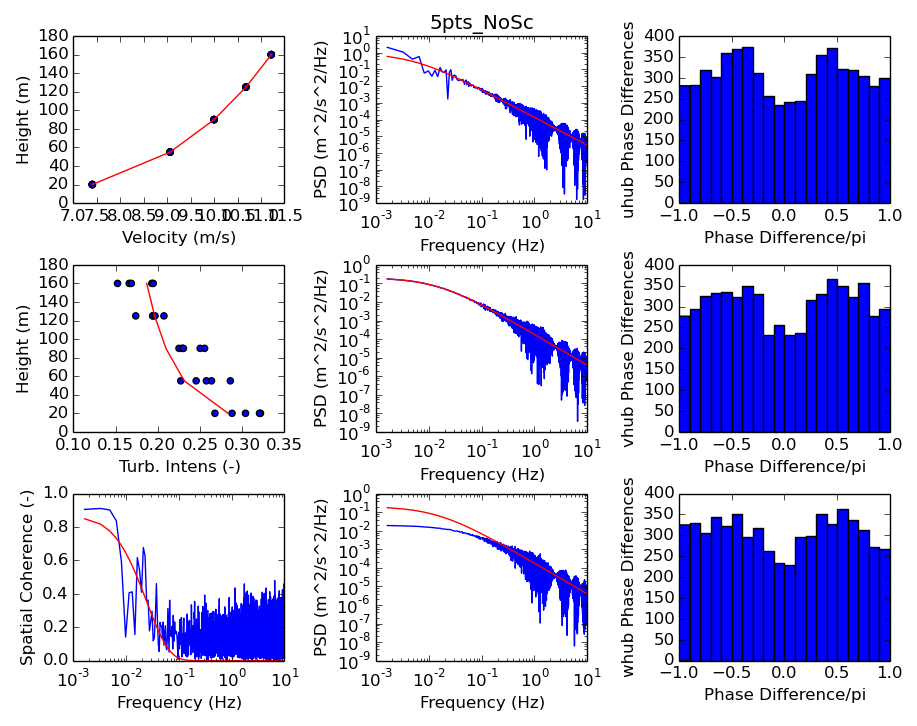
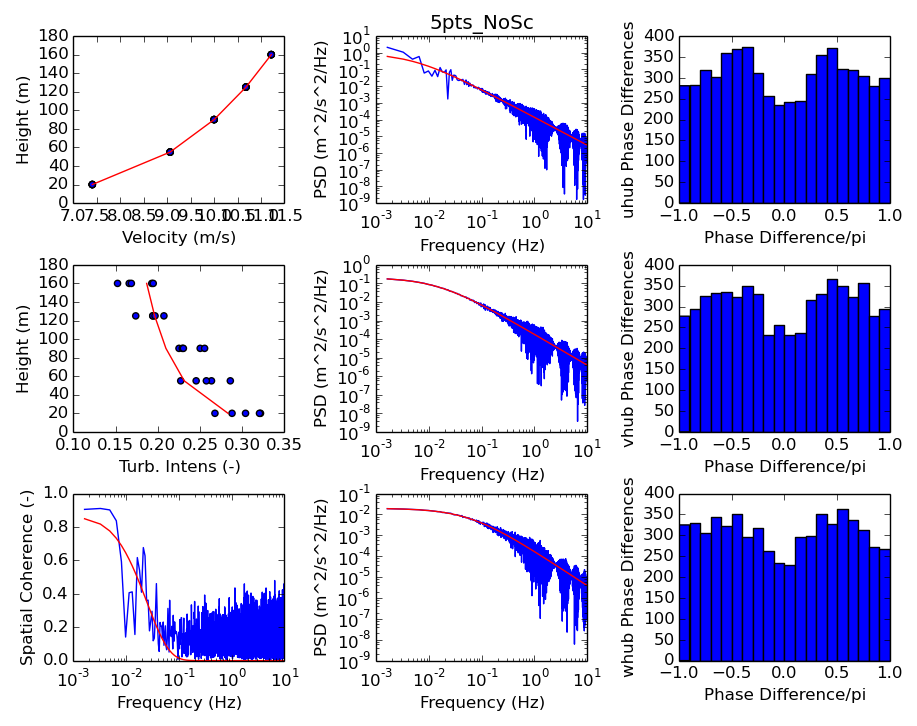
Removed debugging lines from JR_Library.misc

Changed region(s): [[0.3664, 0.6667, 0.6412, 0.9091]]

diff --git a/JR_Library/IEC.py b/JR_Library/IEC.py
@@ -163,10 +163,6 @@ def PSDs(zhub,Vhub,turbc,f):
     L2 = 2.7*Lambda1;                   # lateral integral scale  
     L3 = 0.66*Lambda1;                  # vertical integral scale
 
-    print 'Lambda1 = {}'.format(Lambda1)
-    print 'sigma1 = {}'.format(sigma1)
-    print 'L1 = {}'.format(L1)
-
     Su = KaimalSpectrum(f,L1/Vhub,sigma1);  # longitudinal spectrum
     Sv = KaimalSpectrum(f,L2/Vhub,sigma2);  # lateral spectrum
     Sw = KaimalSpectrum(f,L3/Vhub,sigma3);  # vertical spectrum

diff --git a/turbsim-verification/verification_plot.py b/turbsim-verification/verification_plot.py
@@ -13,11 +13,11 @@ import JR_Library.ExtractWindParameters as ewp
 import JR_Library.misc as misc
 
 # name of file to load
-dname   = '2-periodic/TS/'
+dname   = '1-unmodified/TS/'
 fname   = '5pts_NoSc';
 
 # save image in directory?
-saveimg = 0
+saveimg = 1
 
 # construct total file path
 inpname = dname + fname + '.inp';
